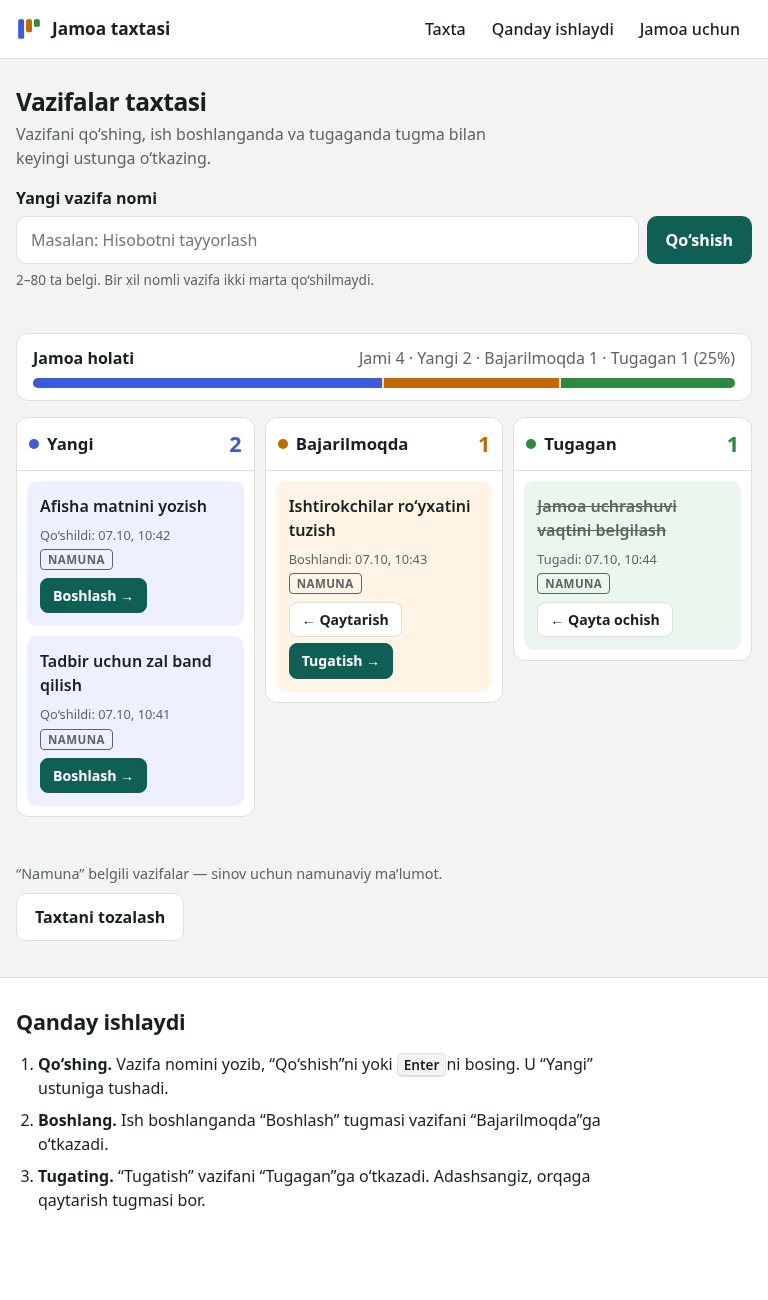
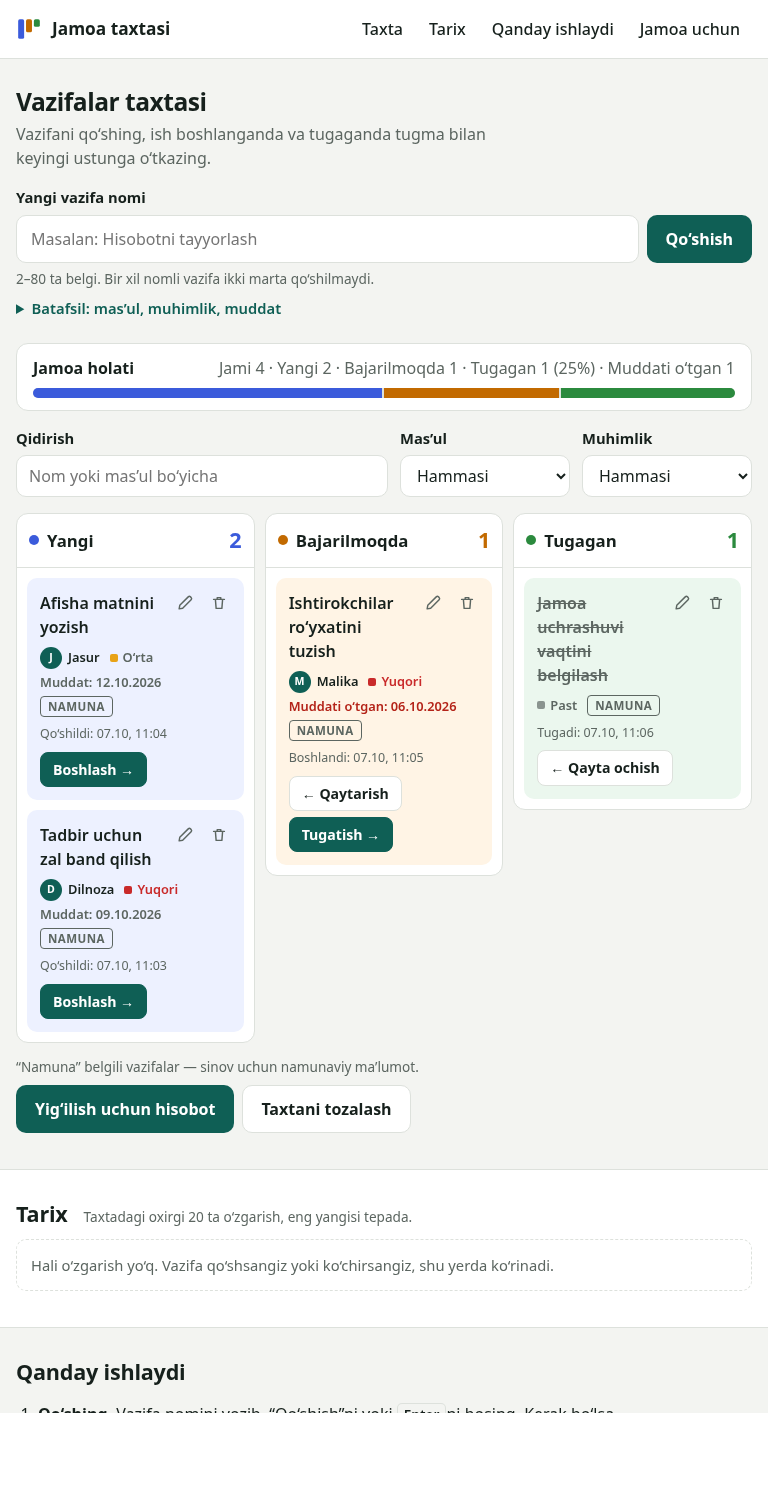
sinov: brauzer testlari tests/ ga, TESTLAR.md, yangi skrinshotlar

diff --git a/tests/e2e-asosiy.html b/tests/e2e-asosiy.html
@@ -1,0 +1,67 @@
+<!doctype html><meta charset="utf-8"><body><pre id="out">running</pre>
+<iframe id="f" src="../index.html" style="width:1366px;height:900px"></iframe>
+<script>
+const log=[];const ok=(c,m)=>log.push((c?'PASS ':'FAIL ')+m);
+const f=document.getElementById('f');
+const reload=()=>new Promise(r=>{f.onload=r;f.contentWindow.location.reload();});
+const errs=[];
+f.onload=async()=>{ try {
+ f.onload=null; localStorage.clear(); await reload();
+ let D=f.contentDocument, W=f.contentWindow; W.addEventListener('error',e=>errs.push(e.message));
+ const n=s=>+D.getElementById('count-'+s).textContent; const $=id=>D.getElementById(id);
+ ok(n('new')===2&&n('doing')===1&&n('done')===1,'namuna taxta 2/1/1');
+ ok(D.querySelector('.task.is-late')&&/Muddati o‘tgan/.test(D.querySelector('.task.is-late').textContent),'muddati o‘tgan vazifa belgilandi');
+ const add=(t,x={})=>{ $('title').value=t; $('assignee').value=x.a||''; $('priority').value=x.p||'orta'; $('due').value=x.d||''; D.querySelector('#add-form button[type=submit]').click(); };
+ add(''); ok(/yozing/.test($('title-error').textContent),'bo‘sh nom: '+$('title-error').textContent);
+ add('Zal', {a:'A'}); ok(/2–30/.test($('assignee-error').textContent)&&$('more').open,'mas’ul 1 belgi rad, “Batafsil” ochildi');
+ add('Zal', {d:'2020-01-01'}); ok(/oldin/.test($('due-error').textContent),'o‘tgan muddat rad: '+$('due-error').textContent);
+ add('Hisobot tayyorlash', {a:'Sardor Aliyev', p:'yuqori'});
+ ok(n('new')===3 && D.querySelector('#list-new .task .avatar').textContent==='SA','qo‘shildi: mas’ul SA, Yangi = 3');
+ ok(!$('toast').hidden,'pastki xabar chiqdi: '+$('toast-text').textContent);
+ // BILET SINOVI
+ const card=[...D.querySelectorAll('#list-new .task')].find(li=>li.textContent.includes('Hisobot tayyorlash'));
+ const b=card.querySelector('.move'); const before=[n('new'),n('doing')]; b.click(); b.click();
+ ok(n('new')===before[0]-1&&n('doing')===before[1]+1,'BILET SINOVI: Yangi '+before[0]+'→'+n('new')+', Bajarilmoqda '+before[1]+'→'+n('doing'));
+ ok(D.activeElement.closest('#list-doing .task'),'fokus ko‘chgan vazifada');
+ // undo move
+ $('toast-undo').click(); ok(n('new')===before[0]&&n('doing')===before[1],'“Bekor qilish”: ko‘chirish qaytdi');
+ // edit
+ let c2=[...D.querySelectorAll('.task')].find(li=>li.textContent.includes('Hisobot tayyorlash'));
+ c2.querySelector('.icon-btn').click();
+ let ed=D.querySelector('.task--edit'); ok(ed&&D.activeElement.tagName==='INPUT','tahrir shakli ochildi, fokus inputda');
+ ed.querySelector('input[type=text]').value='Afisha matnini yozish'; ed.querySelector('button[type=submit]').click();
+ ok(/allaqachon/.test(D.querySelector('.task--edit [data-err=title]').textContent),'tahrirda takror nom rad');
+ ed=D.querySelector('.task--edit'); ed.querySelector('input[type=text]').value='Yillik hisobot';
+ ed.querySelector('input[type=text]').dispatchEvent(new KeyboardEvent('keydown',{key:'Escape',bubbles:true}));
+ ok(!D.querySelector('.task--edit')&&[...D.querySelectorAll('.task__title')].some(p=>p.textContent==='Hisobot tayyorlash'),'Esc: tahrir bekor, nom o‘zgarmadi');
+ c2=[...D.querySelectorAll('.task')].find(li=>li.textContent.includes('Hisobot tayyorlash')); c2.querySelector('.icon-btn').click();
+ ed=D.querySelector('.task--edit'); ed.querySelector('input[type=text]').value='Yillik hisobot'; ed.querySelector('button[type=submit]').click();
+ ok([...D.querySelectorAll('.task__title')].some(p=>p.textContent==='Yillik hisobot'),'tahrir saqlandi');
+ // delete + undo
+ const total=n('new')+n('doing')+n('done');
+ [...D.querySelectorAll('.task')].find(li=>li.textContent.includes('Yillik hisobot')).querySelector('.icon-btn--danger').click();
+ ok(n('new')+n('doing')+n('done')===total-1&&D.activeElement!==D.body,'o‘chirildi, fokus body’da emas');
+ $('toast-undo').click(); ok(n('new')+n('doing')+n('done')===total,'o‘chirish bekor qilindi');
+ // filter
+ $('f-q').value='ROʻYXAT'; $('f-q').dispatchEvent(new Event('input'));
+ ok(D.querySelectorAll('.task').length===1&&/1 \/ 5/.test($('f-result').textContent),'qidiruv (apostrof farqsiz): '+$('f-result').textContent);
+ ok(n('new')===3,'filtrda ham ustun sonlari umumiy');
+ ok(/Filtrga mos vazifa yo‘q/.test($('list-new').textContent),'bo‘sh ustunda “Filtrga mos vazifa yo‘q”');
+ $('f-clear').click(); ok(D.querySelectorAll('.task').length===5,'filtr tozalandi');
+ $('f-who').value='__none__'; $('f-who').dispatchEvent(new Event('change')); ok(D.querySelectorAll('.task').length===1,'mas’ulsiz filtr');
+ $('f-clear').click();
+ // reload persistence
+ await reload(); D=f.contentDocument;
+ ok(+D.getElementById('count-new').textContent===3&&D.querySelectorAll('.task').length===5,'yangilangandan keyin saqlangan');
+ // v1 migration
+ localStorage.removeItem('taxta010.v2'); localStorage.setItem('taxta010.tasks',JSON.stringify([{id:'x',title:'Eski vazifa',status:'doing',createdAt:1,updatedAt:1}]));
+ await reload(); D=f.contentDocument; ok(D.querySelectorAll('.task').length===1&&+D.getElementById('count-doing').textContent===1,'v1 ma’lumot avtomatik ko‘chdi');
+ localStorage.setItem('taxta010.v2','{buzuq'); await reload(); D=f.contentDocument;
+ ok(D.querySelectorAll('.task').length===4,'buzilgan v2: namuna taxta, sayt ishladi');
+ ok(errs.length===0,'JS xatolar: '+(errs.join('; ')||'yo‘q'));
+ f.style.width='390px'; await new Promise(r=>setTimeout(r,150));
+ ok(D.documentElement.scrollWidth<=390,'390px yonga surish yo‘q (scrollWidth='+D.documentElement.scrollWidth+')');
+ } catch(e){ log.push('EXC '+e.message+' | '+(e.stack||'').split('\n')[1]); }
+ document.getElementById('out').textContent=log.join('\n');
+};
+</script>

diff --git a/tests/e2e-qoshimcha.html b/tests/e2e-qoshimcha.html
@@ -1,0 +1,48 @@
+<!doctype html><meta charset="utf-8"><body><pre id="out">running</pre>
+<iframe id="f" src="../index.html" style="width:1366px;height:900px"></iframe>
+<script>
+const log=[];const ok=(c,m)=>log.push((c?'PASS ':'FAIL ')+m);
+const f=document.getElementById('f'); const wait=ms=>new Promise(r=>setTimeout(r,ms));
+const reload=()=>new Promise(r=>{f.onload=r;f.contentWindow.location.reload();});
+f.onload=async()=>{ try {
+ f.onload=null; localStorage.clear(); await reload();
+ let D=f.contentDocument, W=f.contentWindow; const errs=[]; W.addEventListener('error',e=>errs.push(e.message));
+ const n=s=>+D.getElementById('count-'+s).textContent; const $=id=>D.getElementById(id);
+ const drag=(task,col)=>{ const dt=new DataTransfer();
+   task.dispatchEvent(new DragEvent('dragstart',{bubbles:true,dataTransfer:dt}));
+   const over=new DragEvent('dragover',{bubbles:true,cancelable:true,dataTransfer:dt}); col.dispatchEvent(over);
+   const st={ok:col.classList.contains('drop-ok'),no:col.classList.contains('drop-no'),prevented:over.defaultPrevented};
+   col.dispatchEvent(new DragEvent('drop',{bubbles:true,cancelable:true,dataTransfer:dt}));
+   task.dispatchEvent(new DragEvent('dragend',{bubbles:true,dataTransfer:dt})); return st; };
+ const t1=$('list-new').querySelector('.task'); const b=[n('new'),n('doing')];
+ let st=drag(t1,$('col-doing'));
+ ok(st.ok&&st.prevented&&n('new')===b[0]-1&&n('doing')===b[1]+1,'sudrab: Yangi→Bajarilmoqda ('+b[0]+'→'+n('new')+', '+b[1]+'→'+n('doing')+')');
+ const t2=$('list-new').querySelector('.task'); const before=n('done');
+ st=drag(t2,$('col-done'));
+ ok(st.no&&!st.prevented&&n('done')===before,'sudrab: Yangi→Tugagan rad, “bu ustunga mumkin emas” ko‘rindi');
+ ok(D.querySelectorAll('.drop-ok,.drop-no,.is-dragging').length===0,'sudrashdan keyin belgilar tozalandi');
+ const hist=[...D.querySelectorAll('#history-list .history__item')].map(li=>li.textContent);
+ ok(hist.length===1&&/Yangi → Bajarilmoqda/.test(hist[0]),'tarix: '+hist[0]);
+ $('report-open').click();
+ ok(!$('report').hidden&&/Jami: 4/.test($('report-text').value)&&D.activeElement===$('report-copy'),'hisobot oynasi ochildi, fokus “Nusxalash”da');
+ ok(/Muddati o‘tgan \(1\)/.test($('report-text').value),'hisobotda muddati o‘tganlar bor');
+ $('report-copy').click(); await wait(200); ok($('report-msg').textContent.length>0,'nusxalash xabari: '+$('report-msg').textContent);
+ $('report').dispatchEvent(new KeyboardEvent('keydown',{key:'Escape',bubbles:true}));
+ ok($('report').hidden&&D.activeElement===$('report-open'),'Esc: oyna yopildi, fokus tugmaga qaytdi');
+ // mobil tablar
+ f.style.width='390px'; await wait(200);
+ ok(W.getComputedStyle($('col-doing')).display==='none'&&W.getComputedStyle($('col-new')).display!=='none','390px: faqat “Yangi” tabi ko‘rinadi');
+ $('tab-doing').click(); await wait(50);
+ ok(W.getComputedStyle($('col-doing')).display!=='none'&&W.getComputedStyle($('col-new')).display==='none'&&$('tab-doing').getAttribute('aria-selected')==='true','tab “Bajarilmoqda” ochildi');
+ ok($('tc-doing').textContent===String(n('doing')),'tabdagi son: '+$('tc-doing').textContent);
+ const doingBtn=$('list-doing').querySelector('.move--fwd'); doingBtn.click();
+ ok(D.activeElement===$('tab-doing'),'ko‘chirilgan vazifa boshqa tabga o‘tdi — fokus tabda qoldi');
+ $('tab-doing').dispatchEvent(new KeyboardEvent('keydown',{key:'ArrowRight',bubbles:true}));
+ ok($('tab-done').getAttribute('aria-selected')==='true'&&D.activeElement===$('tab-done'),'→ tugmasi bilan keyingi tab');
+ ok(D.documentElement.scrollWidth<=390,'390px yonga surish yo‘q');
+ await reload(); D=f.contentDocument; ok(D.getElementById('tab-done').getAttribute('aria-selected')==='true','tanlangan tab eslab qolindi');
+ ok(errs.length===0,'JS xatolar: '+(errs.join('; ')||'yo‘q'));
+ } catch(e){ log.push('EXC '+e.message+' | '+(e.stack||'').split('\n')[1]); }
+ document.getElementById('out').textContent=log.join('\n');
+};
+</script>

diff --git a/TESTLAR.md b/TESTLAR.md
@@ -1,0 +1,67 @@
+# TESTLAR — Bilet 010 “Jamoa taxtasi”
+
+Jami: **20 unit test** (`node test.js`) + **42 brauzer tekshiruvi** (`tests/`). Hammasi o‘tadi.
+
+## Qanday ishga tushiriladi
+```
+node test.js                         # mantiq testlari
+python3 -m http.server 8000          # loyiha papkasida
+# brauzerda: http://localhost:8000/tests/e2e-asosiy.html
+#            http://localhost:8000/tests/e2e-qoshimcha.html
+```
+Brauzer testlari sahifaning `localStorage`ini tozalaydi — o‘z ma’lumotingiz bo‘lgan brauzerda ishga tushirmang.
+
+## Bilet sinovi
+| Sinov | Kutilgan | Natija |
+|---|---|---|
+| Yangi vazifani “Boshlash →” bilan o‘tkazish (tugma 2 marta bosildi) | Yangi −1, Bajarilmoqda +1 | ✅ 3→2, 1→2 |
+| Xuddi shu — sichqoncha bilan sudrab | Yangi −1, Bajarilmoqda +1 | ✅ 2→1, 1→2 |
+
+## Noto‘g‘ri kiritish
+| Sinov | Kutilgan | Natija |
+|---|---|---|
+| Bo‘sh nom / faqat probel | “Vazifa nomini yozing.” | ✅ |
+| 1 belgi / 81 belgi | “kamida 2…” / “80 tadan oshmasin (hozir 81 ta)” | ✅ |
+| Takror nom (katta-kichik harf, probel farqi bilan) | “Bunday vazifa allaqachon bor…” | ✅ |
+| Mas’ul 1 belgi | “Mas’ul ismi 2–30 ta belgi bo‘lsin.”, “Batafsil” o‘zi ochiladi | ✅ |
+| Muddat o‘tgan sana | “Muddat bugundan oldin bo‘lmasin.” | ✅ |
+| Muddat `2026-02-30` | “Muddat noto‘g‘ri sana.” | ✅ (unit) |
+| Tahrirda boshqa vazifa nomi | rad etiladi; o‘z nomini qayta saqlash mumkin | ✅ |
+| `<img src=x onerror=…>` | oddiy matn sifatida ko‘rinadi | ✅ |
+
+## Amallar va chekka holatlar
+| Sinov | Kutilgan | Natija |
+|---|---|---|
+| Ko‘chirish → “Bekor qilish” | sonlar oldingi holatga qaytadi | ✅ |
+| O‘chirish → “Bekor qilish” | vazifa qaytadi | ✅ |
+| Tahrir, Esc | o‘zgarish saqlanmaydi | ✅ |
+| Yangi → Tugagan sudrash | rad, “Bu ustunga o‘tkazib bo‘lmaydi” | ✅ |
+| Qidiruv `ROʻYXAT` (boshqa apostrof) | “ro‘yxat” topiladi; “1 / 5 ta vazifa” | ✅ |
+| Filtrda | ustun sonlari umumiy; bo‘sh ustunda “Filtrga mos vazifa yo‘q” | ✅ |
+| Muddati o‘tgan vazifa | qizil “Muddati o‘tgan” belgisi, hisobotda alohida | ✅ |
+| Hisobot oynasi | matn to‘g‘ri; nusxalash yoki belgilash; Esc yopadi | ✅ |
+| Sahifani yangilash | vazifalar, tarix, tanlangan tab saqlanadi | ✅ |
+| v1 formatdagi ma’lumot | avtomatik ko‘chadi | ✅ |
+| Buzilgan `localStorage` | sayt ishlaydi, namuna taxta | ✅ |
+| Konsol xatolari | yo‘q | ✅ |
+
+## Ekran va klaviatura
+| Sinov | Kutilgan | Natija |
+|---|---|---|
+| 390 / 768 / 1366 px | yonga surish yo‘q | ✅ |
+| 390 px | ustunlar tablarga bo‘linadi, ← → bilan tab almashadi | ✅ |
+| Ko‘chirish / tahrir / o‘chirishdan keyin fokus | mantiqiy joyda, `body`da emas | ✅ |
+| Kunduzgi va tungi rejim | ikkalasi ham o‘qiladi | ✅ (skrinshot) |
+
+## Topilgan va tuzatilgan xatolar
+| # | Xato | Tuzatish | Commit |
+|---|---|---|---|
+| 1 | v1: bo‘sh holat xabari ostida ortiqcha bo‘shliq | bo‘sh holatda yig‘iladi | v1 |
+| 2 | Telefonda vazifa boshqa tabga o‘tganda fokus yo‘qolardi | fokus joriy tabga o‘tadi | `7a609a3` |
+| 3 | Hisobot oynasi yopilganda fokus boshqa joyga qaytardi | doim “Hisobot” tugmasiga qaytadi | `7dadcee` |
+| 4 | Kompyuterda sarlavha va shakl tekis emas edi | yuqoridan tekislandi | `478080c` |
+| 5 | Telefonda “Bajarilmoqda 1” tabi 2 qatorga bo‘linardi | bir qatorga sig‘diriladi | `478080c` |
+| 6 | Tahrir shaklida bo‘sh xato qatorlari bo‘shliq qoldirardi | bo‘sh xato joy olmaydi | `478080c` |
+| 7 | Tungi rejimda “Bekor qilish” tugmasi kontrasti past | matn rangi + ramka | `478080c` |
+
+Sinov jarayonidagi o‘z xatom: test skriptida Esc kartaga yuborilgan edi (shaklga yetmagan) — test tuzatildi, sayt to‘g‘ri ishlagan.
